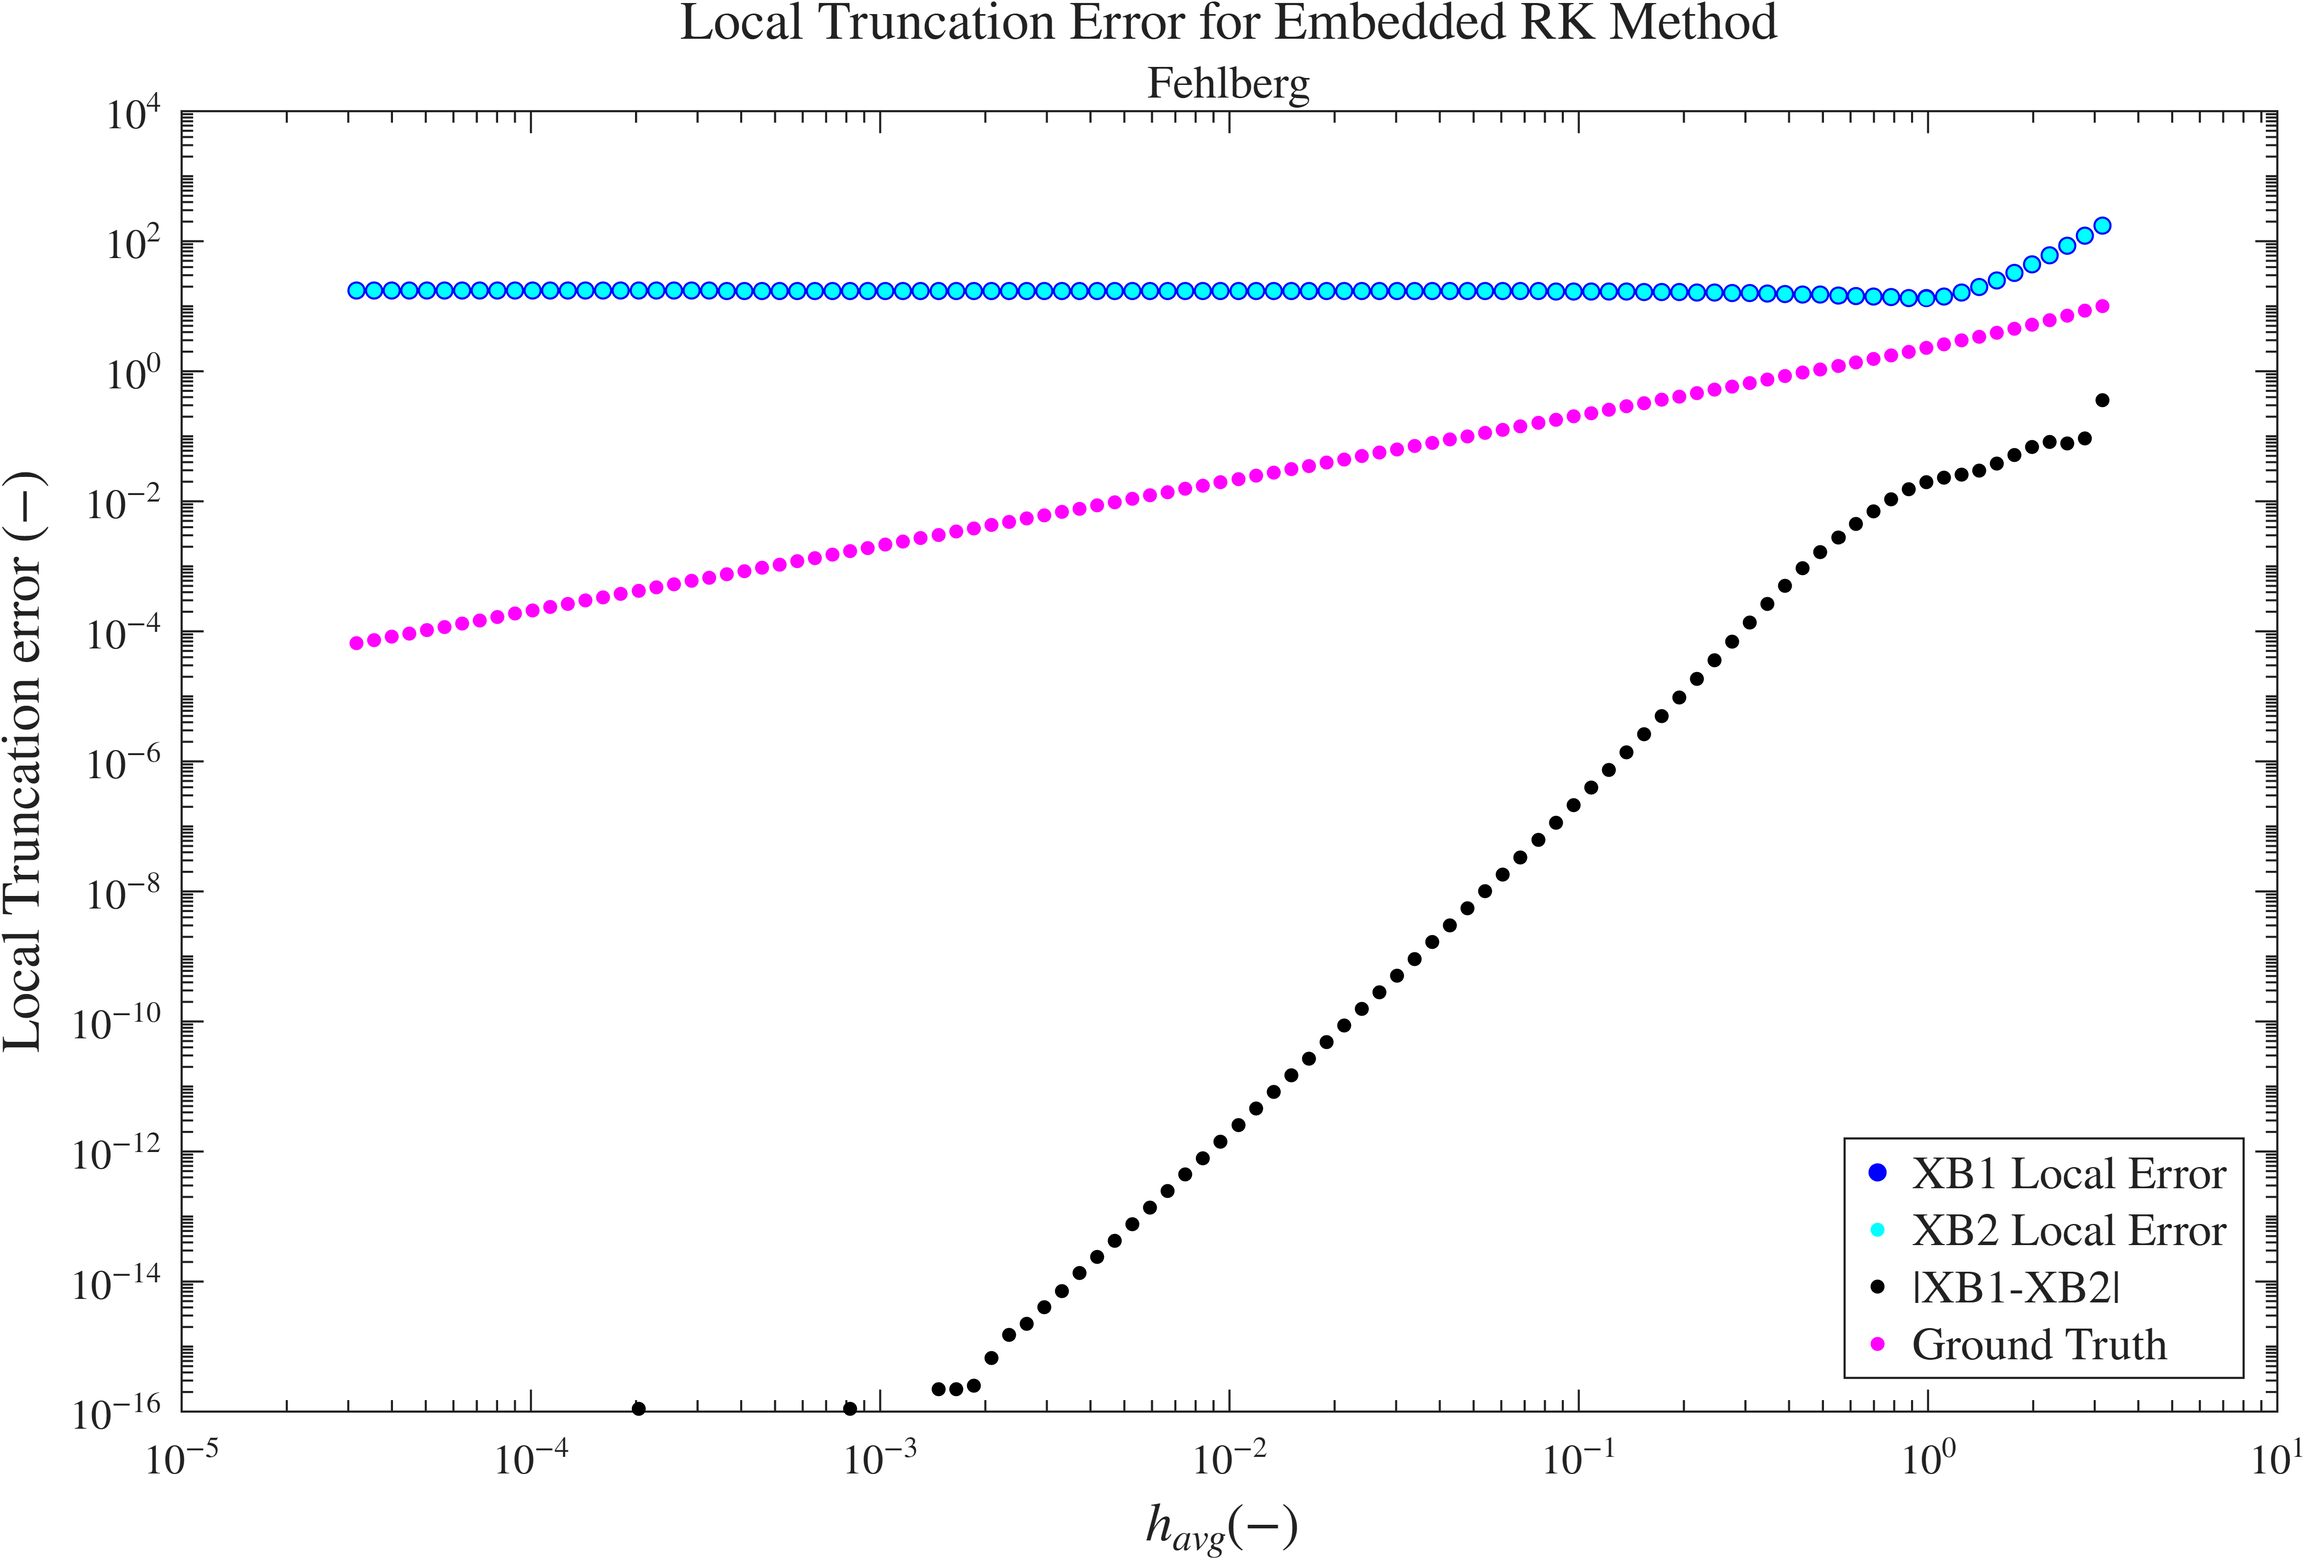
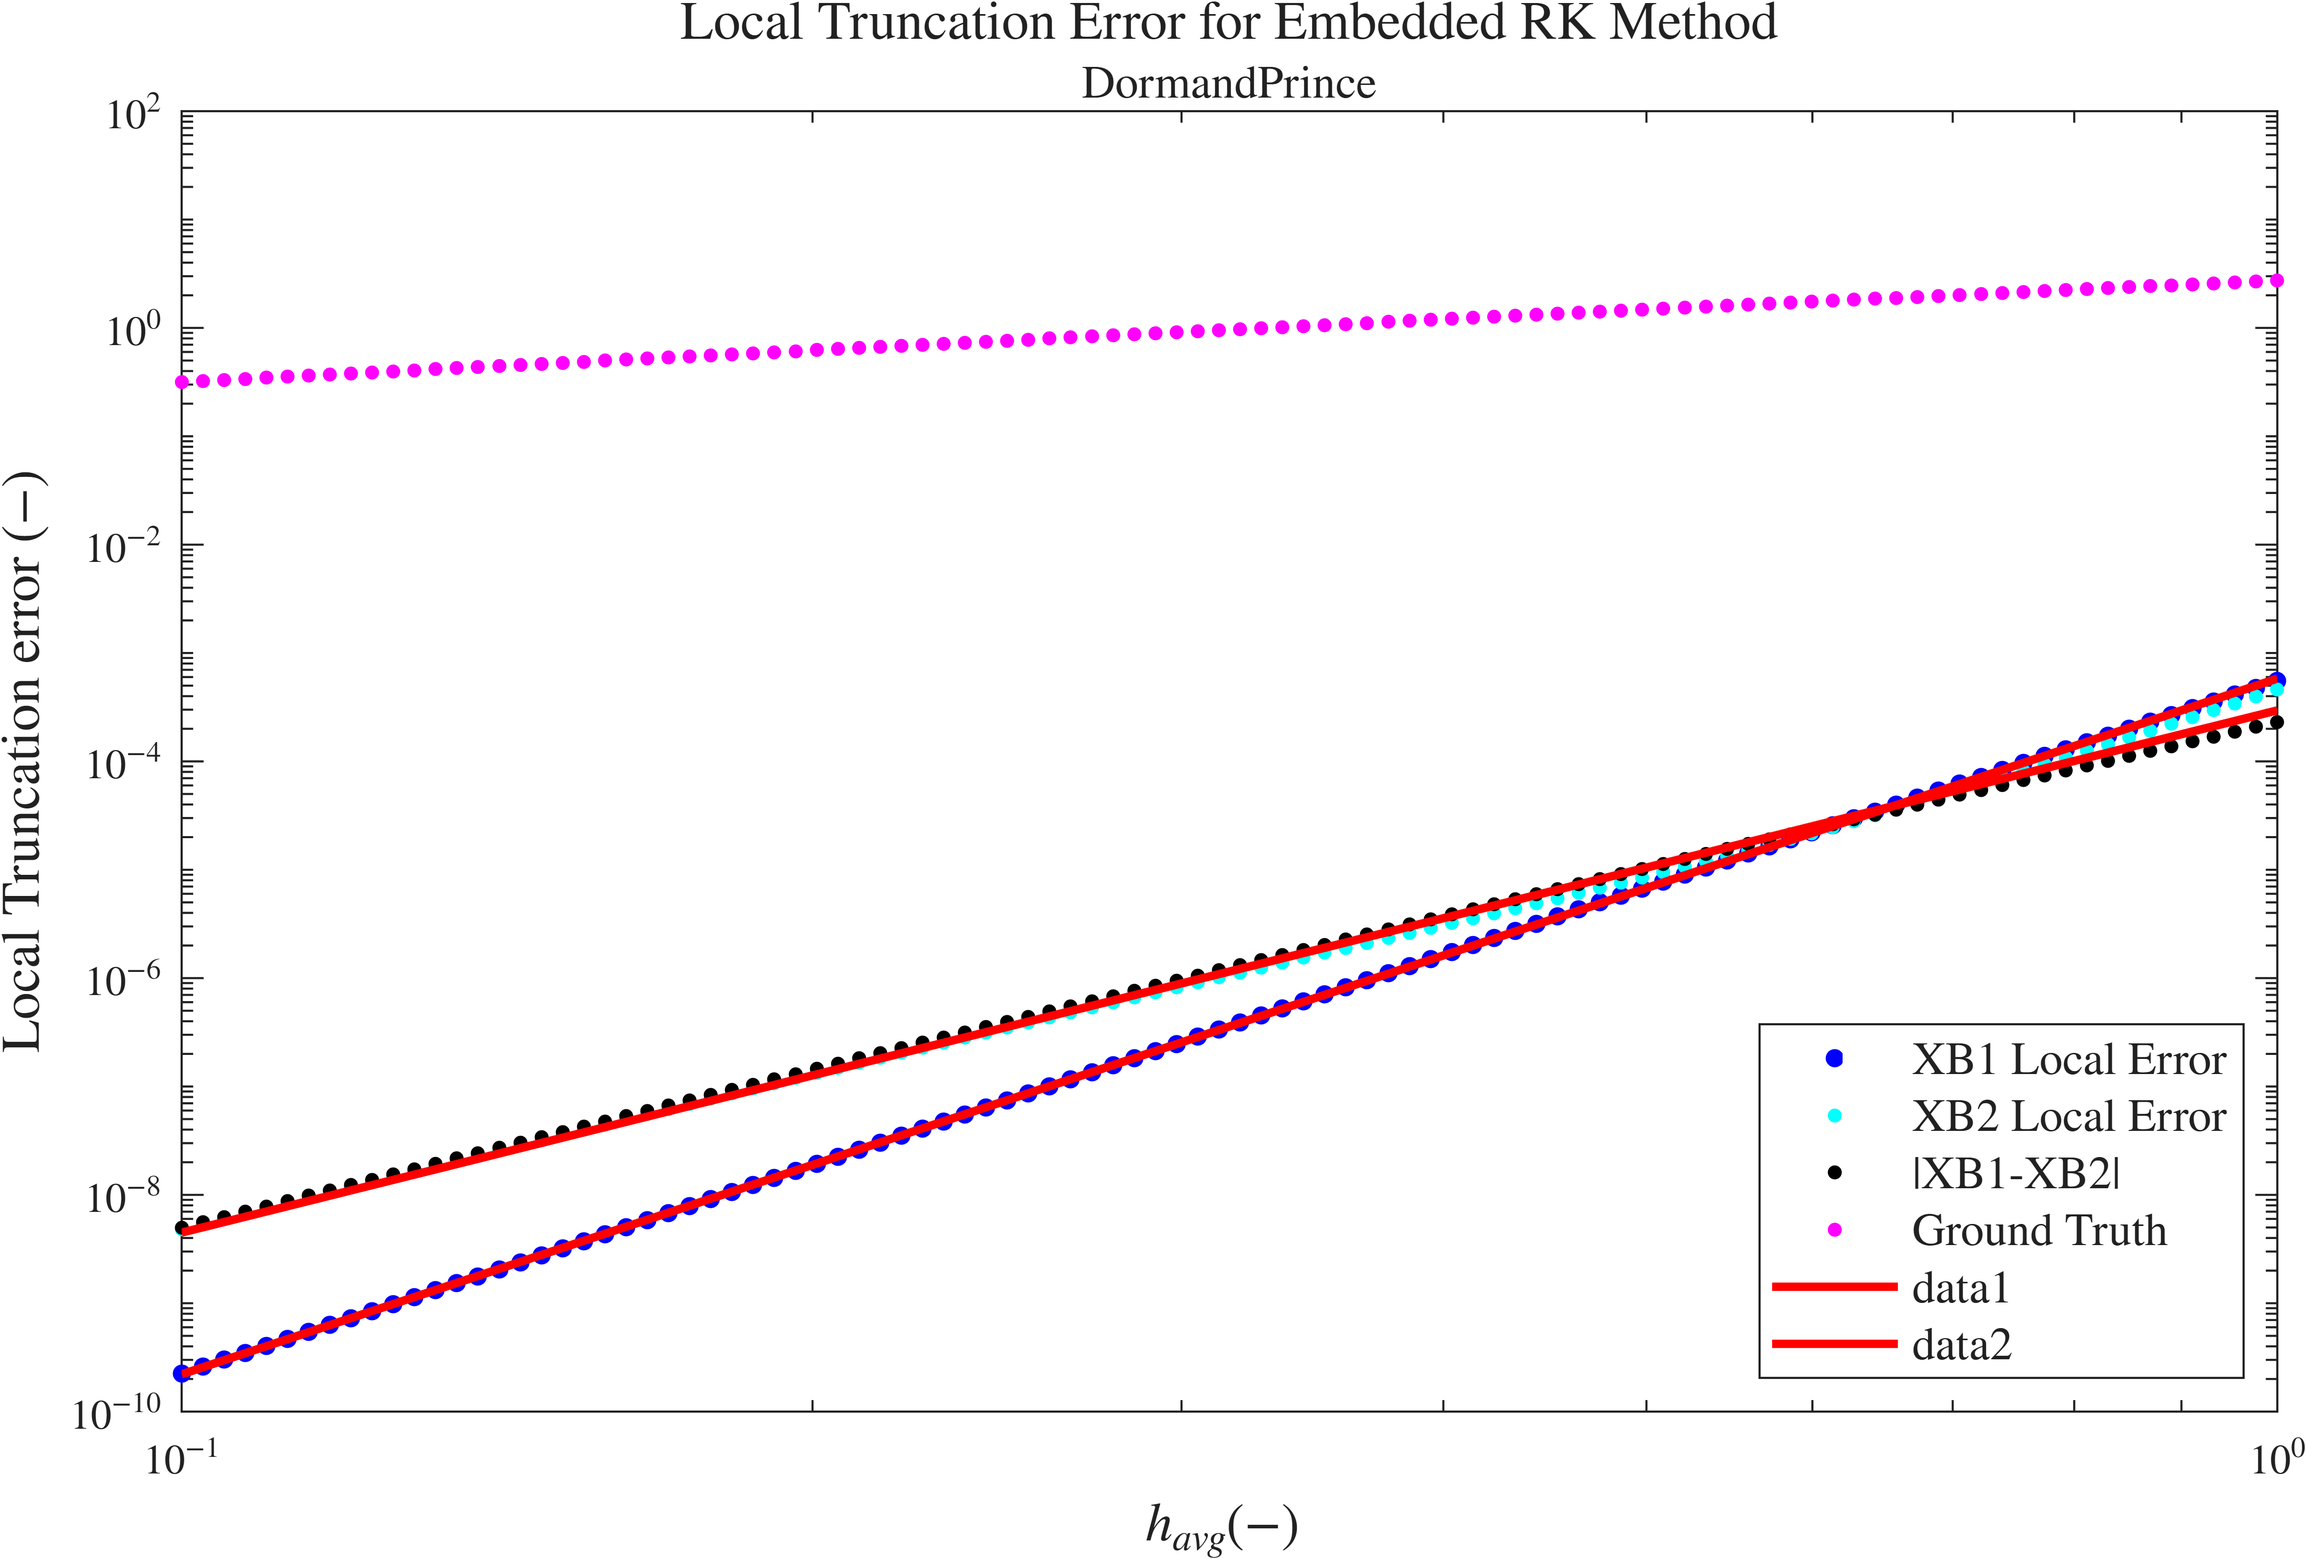
orion goes through and rewrites local error functions

diff --git a/run_local_error.m b/run_local_error.m
@@ -1,24 +1,29 @@
-function run_local_error()
+function run_local_error(index)
     %close all;
     set(groot, 'defaultTextInterpreter', 'latex');
     set(groot, 'defaultAxesTickLabelInterpreter', 'latex');
     set(groot, 'defaultLegendInterpreter', 'latex');
     orbit_params = define_orbit_params();
+
+    rate_func = @(tin,Vin) gravity_rate_func(tin, Vin, orbit_params);
+    
+
     x0 = 8;
-    y0 = 0;
-    dxdt0 = 0;
+    y0 = .2;
+    dxdt0 = -.3;
     dydt0 = 1.5;
     V0 = [x0;y0;dxdt0;dydt0];
     
     BT_struct_var = butcher_tableau_struct_var_step();
     BT_struct_var_names = ["DormandPrince", "Fehlberg", "FehlbergRK1", "HeunEuler", "Bogacki"];
-    index= 2;
+    
     BT_struct = BT_struct_var(index);
-    t = 7;
-    VA = compute_planetary_motion(t,V0,orbit_params);
-    VA =
+    t_ref = 7;
+    sol_func = @(tin) compute_planetary_motion(tin, V0, orbit_params);
+    VA = sol_func(t_ref);
+    
     %XA = solution01(t,0,orbit_params); %0 is just an arbituary value not needed for calculating solution
-    hs = logspace(-4.5,.5,100);
+    hs = logspace(-1,0,100);
     local_errors_1 = zeros(size(hs));
     local_errors_2 = zeros(size(hs));
     approx_sol_diff = zeros(size(hs));
@@ -26,7 +31,7 @@ function run_local_error()
     
     for n = 1:length(hs)
         h = hs(n);
-        [error1, error2, abs_diff, diff] = local_error_calc(@gravity_rate_func, @compute_planetary_motion, VA, t, h, BT_struct, orbit_params);
+        [error1, error2, abs_diff, diff] = local_error_calc(rate_func, sol_func, VA, t_ref, h, BT_struct);
         %[error1, error2, abs_diff, diff] = local_error_calc(@rate_func01, @solution01, XA, t, h, BT_struct, orbit_params);
         local_errors_1(n) = error1;
         local_errors_2(n) = error2;
@@ -51,7 +56,14 @@ function run_local_error()
     
     p_XB1 = polyfit(log(hs), log(local_errors_1), 1)
     p_XB2 = polyfit(log(hs), log(local_errors_2), 1)
+
+    
     p_diff = polyfit(log(hs), log(approx_sol_diff), 1)
+
+    loglog(hs,exp(log(hs)*p_XB1(1)+p_XB1(2)),'r','linewidth',2);
+    loglog(hs,exp(log(hs)*p_XB2(1)+p_XB2(2)),'r','linewidth',2);
+    % loglog(hs,exp(log(hs)*p_XB1(1)+p_XB1(2)),'r','linewidth',2);
+
 
     myfig = gcf();
     exportgraphics(myfig , 'local_err_explicit_01.png', 'Resolution', 600);

diff --git a/RK_step_embedded.m b/RK_step_embedded.m
@@ -15,19 +15,27 @@
 %XB2:theapproximatevalueforX(t+h)usingthesecondrowoftheTableau
 %num_evals:Acountofthenumberoftimesthatyoucalled
 % rate_func_inwhencomputingthenextstep
-function[XB1,XB2,num_evals]=RK_step_embedded(rate_func_in,t,XA,h,BT_struct, orbit_params)
+function[XB1,XB2,num_evals]=RK_step_embedded(rate_func_in,t,XA,h,BT_struct)
     a = BT_struct.A;
-    b = BT_struct.B;
+    b1 = BT_struct.B(1,:);
+    b2 = BT_struct.B(2,:);
     c = BT_struct.C;
     num_evals = 1;
-    k = zeros(length(b),length(XA));
-    k(1,:) = rate_func_in(t,XA,orbit_params);
-    for i = 2:length(b)
+    XB1 = zeros(size(XA));
+    XB2 = zeros(size(XA));
+    
+    k = zeros(length(XA),length(b1));
+   
+    k(:,1) = rate_func_in(t,XA);
+
+    
+    for i = 2:length(b1)
         j = i-1;
-        k(i,:) =  rate_func_in(t + c(i)*h, XA+h*a(i,1:j)*k(1:j)', orbit_params);
+        
+        k(:,i) =  rate_func_in(t + c(i)*h, XA+h*k(:,1:j)*(a(i,1:j)'));
         num_evals = num_evals + 1;
     end
-    
-    XB1 = XA + h*b(1,:)*k;
-    XB2 = XA + h*b(2,:)*k;
+
+    XB1 = XA + h*k*b1';
+    XB2 = XA + h*k*b2';
 end

diff --git a/local_error_calc.m b/local_error_calc.m
@@ -1,7 +1,10 @@
-function [error1, error2, abs_diff, diff] = local_error(rate_func_in, sol_func, XA, t, h, BT_struct, orbit_params)
-    [XB1,XB2,num_evals]=RK_step_embedded(rate_func_in,t,XA,h,BT_struct, orbit_params);
-    error1 = norm(XB1 - sol_func(t + h,XA, orbit_params));
-    error2 = norm(XB2 - sol_func(t + h,XA, orbit_params));
+function [error1, error2, abs_diff, diff] = local_error(rate_func_in, sol_func, XA, t, h, BT_struct)
+    [XB1,XB2,num_evals]=RK_step_embedded(rate_func_in,t,XA,h,BT_struct);
+    sol =  sol_func(t + h);
+    
+
+    error1 = norm(XB1 -sol);
+    error2 = norm(XB2 - sol);
     abs_diff = norm(XB1-XB2);
-    diff = norm(sol_func(t+h,XA, orbit_params) - sol_func(t,XA, orbit_params));
+    diff = norm(sol - sol_func(t));
 end
